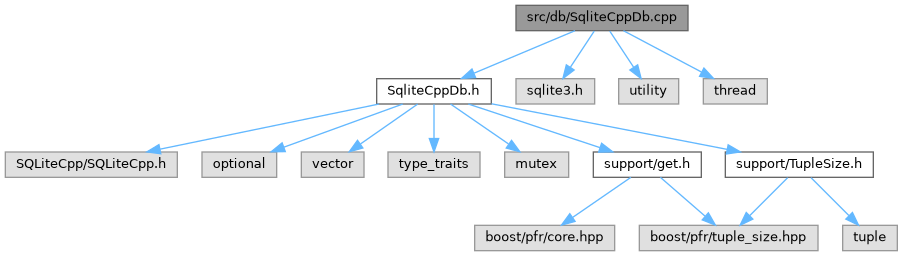
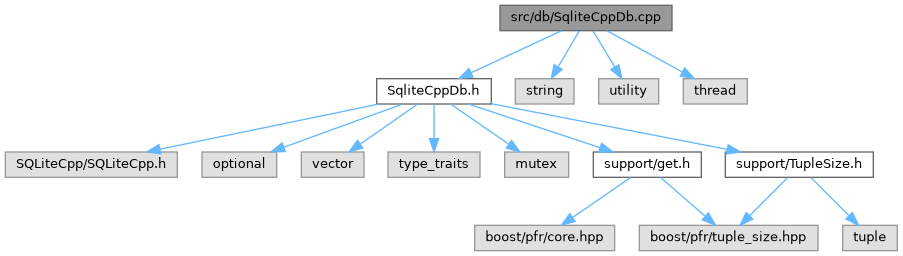
deploy: dad691eb8c85380d630bf1e97bfe9b1d9a2d8f48

Changed region(s): [[0.5581, 0.125, 0.8682, 0.4375], [0.5271, 0.0, 0.7752, 0.125], [0.4961, 0.1875, 0.5891, 0.3125]]

diff --git a/SqliteCppDb_8cpp.html b/SqliteCppDb_8cpp.html
@@ -77,7 +77,7 @@ $(function() {
 </div><!--header-->
 <div class="contents">
 <div class="textblock"><code>#include &quot;<a class="el" href="SqliteCppDb_8h_source.html">SqliteCppDb.h</a>&quot;</code><br />
-<code>#include &quot;sqlite3.h&quot;</code><br />
+<code>#include &lt;string&gt;</code><br />
 <code>#include &lt;utility&gt;</code><br />
 <code>#include &lt;thread&gt;</code><br />
 </div><div class="textblock"><div class="dynheader">
@@ -85,15 +85,15 @@ Include dependency graph for SqliteCppDb.cpp:</div>
 <div class="dyncontent">
 <div class="center"><img src="SqliteCppDb_8cpp__incl.png" border="0" usemap="#asrc_2db_2SqliteCppDb_8cpp" alt=""/></div>
 <map name="asrc_2db_2SqliteCppDb_8cpp" id="asrc_2db_2SqliteCppDb_8cpp">
-<area shape="rect" title=" " alt="" coords="516,5,688,31"/>
+<area shape="rect" title=" " alt="" coords="500,5,672,31"/>
 <area shape="rect" href="SqliteCppDb_8h.html" title=" " alt="" coords="377,79,491,104"/>
-<area shape="poly" title=" " alt="" coords="576,33,475,76,473,71,574,28"/>
-<area shape="rect" title=" " alt="" coords="516,79,595,104"/>
-<area shape="poly" title=" " alt="" coords="597,32,573,69,568,66,592,30"/>
-<area shape="rect" title=" " alt="" coords="619,79,679,104"/>
-<area shape="poly" title=" " alt="" coords="612,30,636,66,631,69,607,32"/>
-<area shape="rect" title=" " alt="" coords="703,79,767,104"/>
-<area shape="poly" title=" " alt="" coords="625,28,703,70,700,74,622,33"/>
+<area shape="poly" title=" " alt="" coords="563,33,472,75,470,70,560,28"/>
+<area shape="rect" title=" " alt="" coords="515,79,574,104"/>
+<area shape="poly" title=" " alt="" coords="581,32,561,68,556,65,577,30"/>
+<area shape="rect" title=" " alt="" coords="599,79,659,104"/>
+<area shape="poly" title=" " alt="" coords="595,30,617,66,613,68,591,32"/>
+<area shape="rect" title=" " alt="" coords="683,79,747,104"/>
+<area shape="poly" title=" " alt="" coords="608,28,683,69,681,74,606,33"/>
 <area shape="rect" title=" " alt="" coords="5,152,177,177"/>
 <area shape="poly" title=" " alt="" coords="379,107,161,152,160,147,378,101"/>
 <area shape="rect" title=" " alt="" coords="202,152,277,177"/>
